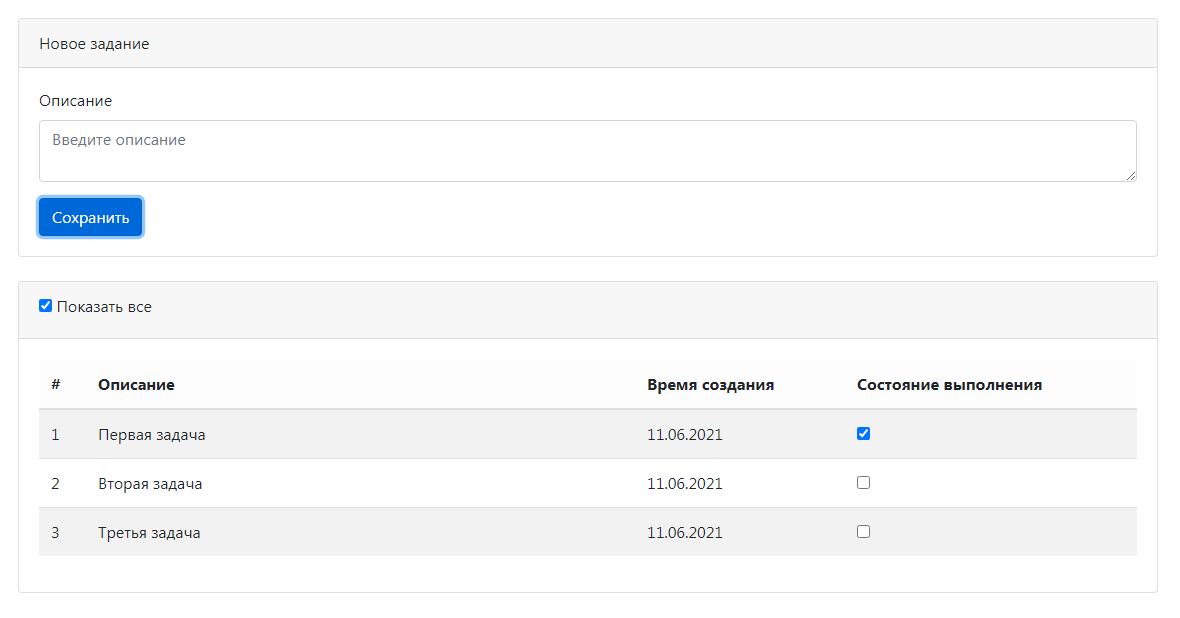
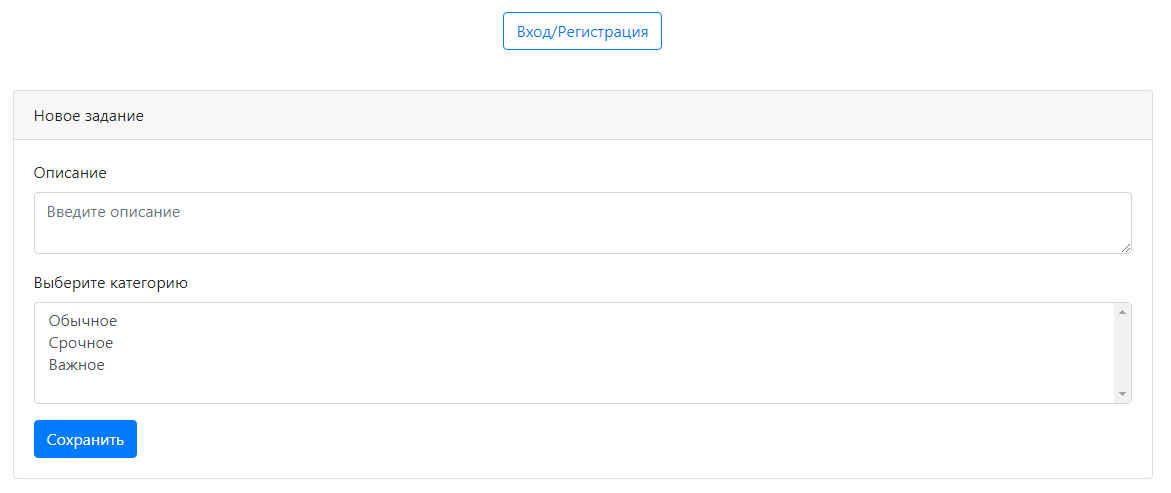
Images added, README updated

diff --git a/README.md b/README.md
@@ -1,15 +1,25 @@
 # Todo List
 [![Build Status](https://travis-ci.com/EvgeniyDanisevich/job4j_todo.svg?branch=master)](https://travis-ci.com/EvgeniyDanisevich/job4j_todo)
 
-В приложении единственная html-страница (index.html), на которой отображается поле для добавления в таблицу задания с описанием. 
-При введении текста в поле и нажатии на кнопку "Сохранить" задание попадает в таблицу в нижней части страницы.
+В приложении доступна регистрация и вход пользователей.
+
+В приложении единственная html-страница (index.html), на которой отображается поле для добавления в таблицу задания с описанием, а также выбор категории задания (возможен выбор более одной категории). 
+При введении текста в поле, выбора категории и нажатии на кнопку "Сохранить" задание попадает в таблицу в нижней части страницы.
+
+В таблице отображается id, описание, категория, автор, время и дата создания задания, а так же выполнено оно или нет. 
 
 В таблице по умолчанию отображаются только невыполненные задания.
 
-При активной галке "Показать все" отображаются как невыполненные, так и выполненные задания.
+При активном чекбоксе "Показать все" отображаются как выполненные, так и невыполненные задания.
 
-В таблице каждое задание можно отметить выполненным (или невыполненным).
+В таблице каждое задание можно отметить выполненным.
 
-Если задание отмечено выполненным, оно перестает отображаться в списке (при неактивной галке "Показать все").
+Если задание отмечено выполненным, оно перестает отображаться в списке (при неактивном чекбоксе "Показать все").
 
 ![alt text](images/image1.png)
+![alt text](images/image2.png)
+![alt text](images/image3.png)
+![alt text](images/image4.png)
+![alt text](images/image5.png)
+![alt text](images/image6.png)
+![alt text](images/image7.png)
